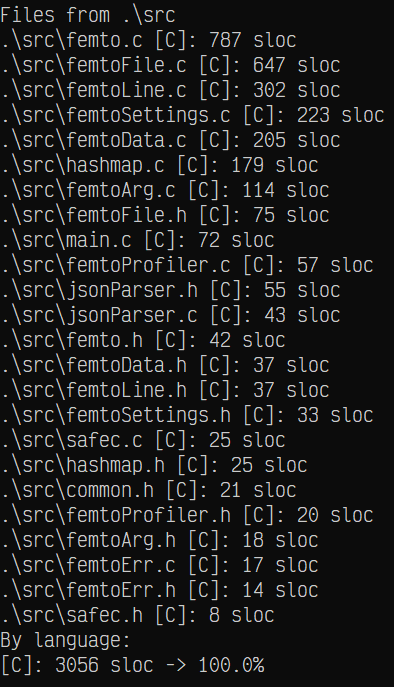
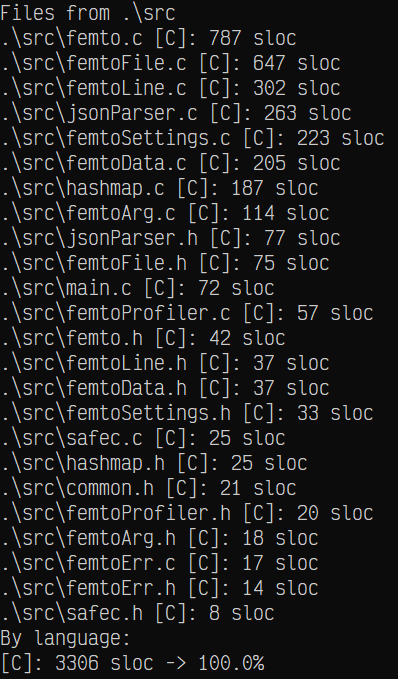
Update sloc

Changed region(s): [[0.0, 0.0, 0.9746, 1.0], [0.4264, 0.9588, 0.6701, 0.9897]]

diff --git a/README.md b/README.md
@@ -10,7 +10,7 @@ It is a bigger more feature-rich version of my other console text editor [atto](
 It is also written in vanilla C + Win32 Console API - it's designed to be used solely on Microsoft Windows.
 It has been compiled with MinGW GCC.
 
-Currently, my other tool [slocWin32](https://github.com/makuke1234/slocWin32) reports ~3100 source code lines (excluding whitespace & comments):
+Currently, my other tool [slocWin32](https://github.com/makuke1234/slocWin32) reports ~3300 source code lines (excluding whitespace & comments):
 
 ![SLOC](./images/sloc.png)
 
